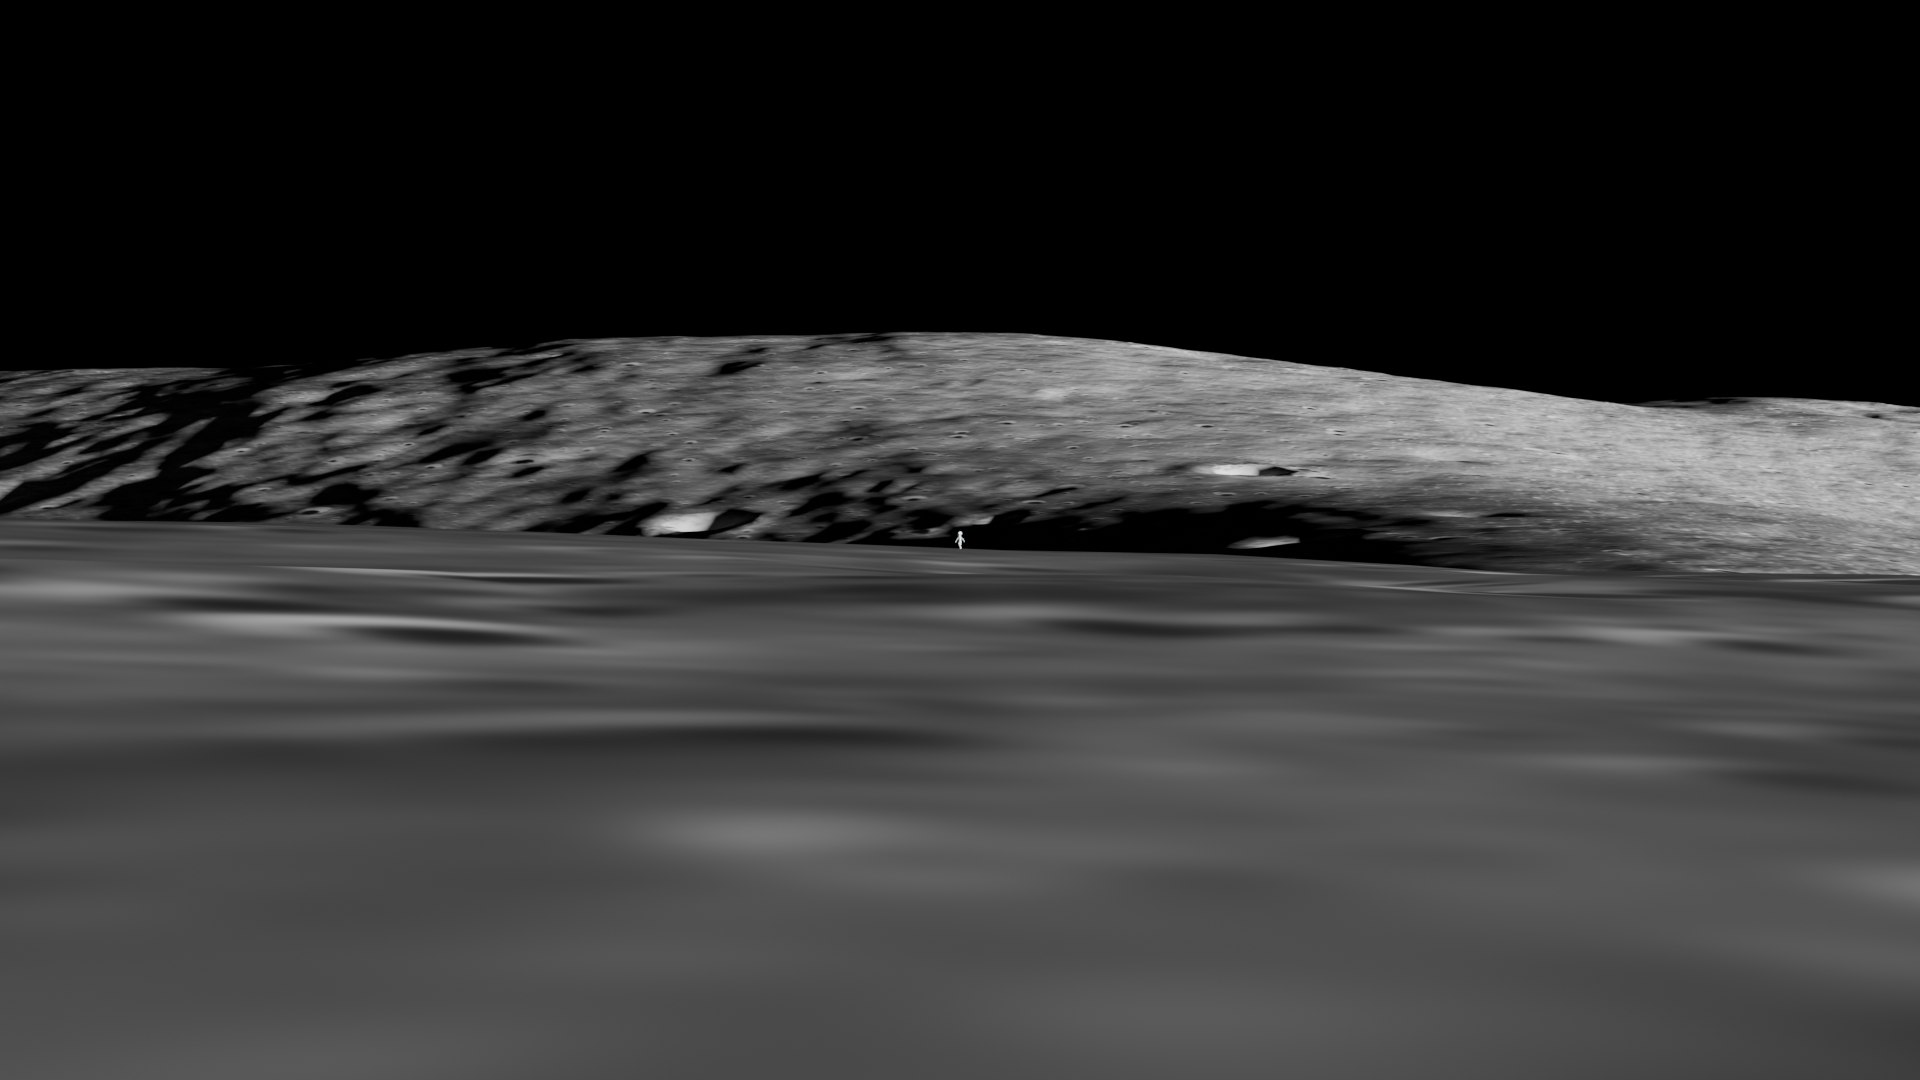
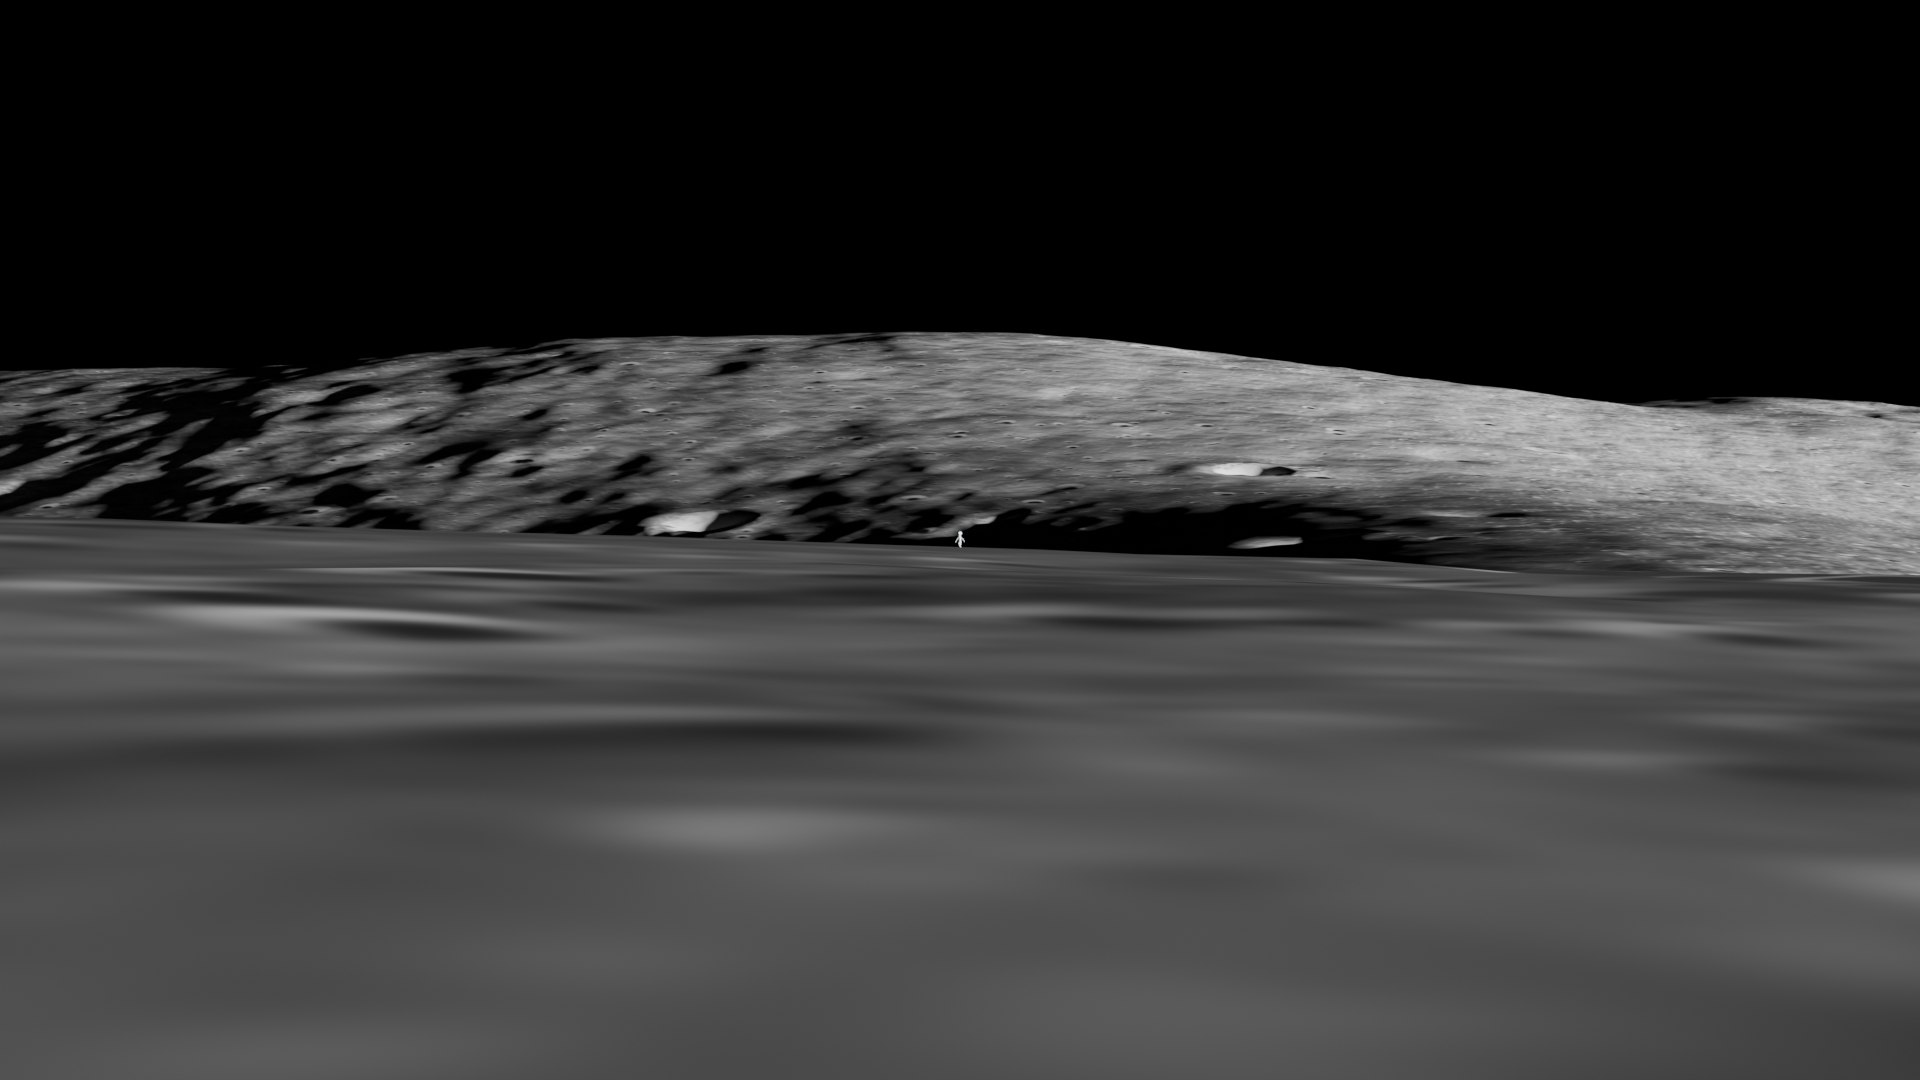
M00: Blender renders rebuilt on the terrain recentred on the DD-023 base

diff --git a/data/blender/recentre.py b/data/blender/recentre.py
@@ -1,0 +1,104 @@
+import bpy, bmesh, sys, numpy as np
+from mathutils import Vector
+from bpy_extras.object_utils import world_to_camera_view
+args = sys.argv[sys.argv.index("--") + 1:] if "--" in sys.argv else []
+PREVIEW = "preview" in args
+D = r"C:\Users\Beached\Desktop\OpenMoon base terrain"
+SCR = r"C:\Users\Beached\AppData\Local\Temp\claude\430f9eef4f5515e2\2f56ca85-f6f8-4853-b580-4acbc22428cd\scratchpad"
+bpy.ops.wm.open_mainfile(filepath=D + r"\openmoon-primary-base.blend")
+sc = bpy.context.scene
+
+# --- swap terrain
+old = bpy.data.objects["Terrain_primary_base"]
+mat = old.data.materials[0]
+old_me = old.data
+bpy.data.objects.remove(old); bpy.data.meshes.remove(old_me)
+bpy.ops.wm.ply_import(filepath=D + r"\mesh_20m.ply")
+t = bpy.context.selected_objects[0]; t.name = "Terrain_primary_base"; t.data.name = "Terrain_primary_base"
+t.data.materials.append(mat)
+if hasattr(t.data, "shade_smooth"): t.data.shade_smooth()
+for c in list(t.users_collection):
+    if c != sc.collection: c.objects.unlink(t)
+if t.name not in sc.collection.objects: sc.collection.objects.link(t)
+tex = next(n for n in mat.node_tree.nodes if n.type == 'TEX_IMAGE')
+old_img = tex.image
+tex.image = bpy.data.images.load(D + r"\texture_2m.jpg")
+bpy.data.images.remove(old_img)
+print("TEXTURE", tex.image.filepath, "uv", [u.name for u in t.data.uv_layers])
+
+# UV alignment check against the new heightmap
+me = t.data
+co = np.empty(len(me.vertices) * 3, np.float32); me.vertices.foreach_get("co", co); co = co.reshape(-1, 3)
+uv = np.empty(len(me.loops) * 2, np.float32); me.uv_layers[0].data.foreach_get("uv", uv); uv = uv.reshape(-1, 2)
+vi = np.empty(len(me.loops), np.int32); me.loops.foreach_get("vertex_index", vi)
+hm = bpy.data.images.load(D + r"\heightmap_5m_16bit.png"); hm.colorspace_settings.name = "Non-Color"
+w, h = hm.size; a = np.empty(w * h * 4, np.float32); hm.pixels.foreach_get(a); a = a.reshape(h, w, 4)[:, :, 0]
+idx = np.random.default_rng(0).choice(len(uv), 100000, replace=False)
+hv = a[np.clip((uv[idx, 1] * h).astype(int), 0, h - 1), np.clip((uv[idx, 0] * w).astype(int), 0, w - 1)] * 3601.49
+print("UVCHECK corr", round(float(np.corrcoef(hv, co[vi[idx], 2])[0, 1]), 6), "bounds", co.min(0), co.max(0))
+bpy.data.images.remove(hm)
+
+bpy.context.view_layer.update()
+dg = bpy.context.evaluated_depsgraph_get()
+def ground(x, y):
+    ok, loc, *_ = sc.ray_cast(dg, Vector((x, y, 10000)), Vector((0, 0, -1))); return loc.z
+
+# --- move human and cameras by the same offset
+human = bpy.data.objects["Human_1.8m"]
+parts = list(human.children_recursive)
+def foot():
+    dg2 = bpy.context.evaluated_depsgraph_get(); P = []
+    for o in parts:
+        if o.type == 'MESH':
+            e = o.evaluated_get(dg2); m = e.to_mesh(); P += [tuple(e.matrix_world @ v.co) for v in m.vertices]; e.to_mesh_clear()
+    A = np.array(P); lo, hi = A.min(0), A.max(0); return Vector(((lo[0] + hi[0]) / 2, (lo[1] + hi[1]) / 2, lo[2])), hi[2] - lo[2]
+f0, _ = foot()
+z0 = ground(0, 0)
+delta = Vector((0, 0, z0)) - f0
+print("BASE_Z", round(z0, 2), "expected 2823.5", "DELTA", tuple(round(v, 2) for v in delta))
+human.location += delta
+cams = [o for o in sc.objects if o.type == 'CAMERA']
+for c in cams: c.location += delta
+bpy.context.view_layer.update()
+f1, hgt = foot(); print("HUMAN foot", tuple(round(v, 2) for v in f1), "height", round(hgt, 3))
+dg = bpy.context.evaluated_depsgraph_get()
+for c in cams:
+    print("CAM", c.name, tuple(round(v, 1) for v in c.location), "clearance", round(c.location.z - ground(c.location.x, c.location.y), 1))
+
+# --- towers
+towers = bpy.data.collections["Towers"]; exp = bpy.data.collections["Towers (expansion)"]
+for o in list(towers.objects) + list(exp.objects):
+    m = o.data; bpy.data.objects.remove(o); bpy.data.meshes.remove(m)
+orange = bpy.data.materials["Tower_marker"]; cyan = bpy.data.materials["Tower_marker_mine"]
+def mast(name, x, y, mat, col):
+    me = bpy.data.meshes.new(name + "_mast"); bm = bmesh.new()
+    bmesh.ops.create_cone(bm, cap_ends=True, segments=16, radius1=0.5, radius2=0.5, depth=10.0)
+    bmesh.ops.translate(bm, verts=bm.verts, vec=(0, 0, 5.0)); bm.to_mesh(me); bm.free(); me.materials.append(mat)
+    o = bpy.data.objects.new(name, me); col.objects.link(o); o.location = (x, y, ground(x, y))
+    print("PLACED", name, tuple(round(v, 1) for v in o.location)); return o
+for bn, mn, x, y, col in (("B1", "M1", -1059.9, -4396.5, towers), ("B2", "M2", -3338.9, -4216.8, towers),
+                          ("B4", "M3", 5722.0, -7454.7, exp)):
+    mast(bn, x - 10, y, orange, col); mast(mn, x + 10, y, cyan, col)
+mast("B3", -1666.7, 1209.8, orange, towers)
+
+# --- frame positions for the tower view labels
+W, H = sc.render.resolution_x, sc.render.resolution_y
+ct = bpy.data.objects["Cam_towers"]
+pts = {n: bpy.data.objects[n].location for n in ("B1", "M1", "B2", "M2", "B3", "B4", "M3")}
+pts["Base"] = Vector((0, 0, z0))
+for n, p in pts.items():
+    f = world_to_camera_view(sc, ct, p); print("FRAME", n, round(f.x * W), round((1 - f.y) * H))
+
+# --- render
+sc.cycles.samples = 32 if PREVIEW else 256
+sc.render.resolution_percentage = 50 if PREVIEW else 100
+out = SCR if PREVIEW else D
+for cn, fn in (("Cam_close", "render_close.png"), ("Cam_wide", "render_wide.png"),
+               ("Cam_overview", "render_overview.png"), ("Cam_towers", "render_towers.png")):
+    sc.camera = bpy.data.objects[cn]; sc.render.filepath = out + "\\" + fn
+    bpy.ops.render.render(write_still=True); print("RENDERED", fn)
+sc.camera = bpy.data.objects["Cam_close"]
+if not PREVIEW:
+    bpy.ops.file.pack_all()
+    print("PACKED", [(i.name, bool(i.packed_file)) for i in bpy.data.images])
+    bpy.ops.wm.save_as_mainfile(filepath=D + r"\openmoon-primary-base.blend", compress=True); print("SAVED")

diff --git a/data/README.md b/data/README.md
@@ -29,7 +29,7 @@ python3 -I analysis/data_tools.py pack WORKDIR
 | `lend/` | LRO LEND neutron data (raw ALDS products) and the focus-area hydrogen grids | NASA [PDS Geosciences Node](https://pds-geosciences.wustl.edu/missions/lro/lend.htm) |
 | `lroc/` | LROC NAC maximum-pixel mosaic, 20 × 20 km, 2 m/px (lossless PNG + polar stereographic bounds): `nac_max` around the DD-020 point, `nac_max_D` around the current base (DD-023, in two halves) | NASA/GSFC/Arizona State University, [NASA PDS](https://pds.mcp.nasa.gov/data/index.html#/data/store/img/lunar_reconnaissance_orbiter/pds4/lroc/lro-l-lroc-5-rdr/LROLRC_2001/EXTRAS/BROWSE/NAC_POLE/) |
 | `sunlight/` | Open Moon 18.6-year sunlight series for 2,243 spots (packed bits: lit = at least half the Sun's disc above the horizon), the spots' positions, and Sun directions every 2 hours (ESTIMATE) | Open Moon model over LOLA terrain; Sun from the NAIF kernels below |
-| `blender/` | "Cesium Man" 3D figure used for scale in the M00 renders (CesiumMan.glb, with its licence file), and the Blender and image scripts that built the scene and renders (`build.py`, `move_base.py`, `towers_dd024.py`, `tower_cam.py`, `label.ps1`). The scene file itself (84 MB) is not stored here. | Figure © 2017 Cesium, CC BY 4.0, [Khronos glTF Sample Assets](https://github.com/KhronosGroup/glTF-Sample-Assets/tree/main/Models/CesiumMan); terrain from `blender/primary-base` |
+| `blender/` | "Cesium Man" 3D figure used for scale in the M00 renders (CesiumMan.glb, with its licence file), and the Blender and image scripts that built the scene and renders (`build.py`, `move_base.py`, `towers_dd024.py`, `tower_cam.py`, `recentre.py` for the terrain recentred on the DD-023 base, `label.ps1`). The scene file itself (84 MB) is not stored here. | Figure © 2017 Cesium, CC BY 4.0, [Khronos glTF Sample Assets](https://github.com/KhronosGroup/glTF-Sample-Assets/tree/main/Models/CesiumMan); terrain from `blender/primary-base` |
 | `spice/` | de421.bsp, moon_pa_de421_1900-2050.bpc, moon_080317.tf | NASA/JPL [NAIF generic kernels](https://naif.jpl.nasa.gov/naif/data_generic.html) |
 
 All files are under 100 MB (GitHub's limit); larger arrays are split by rows.
